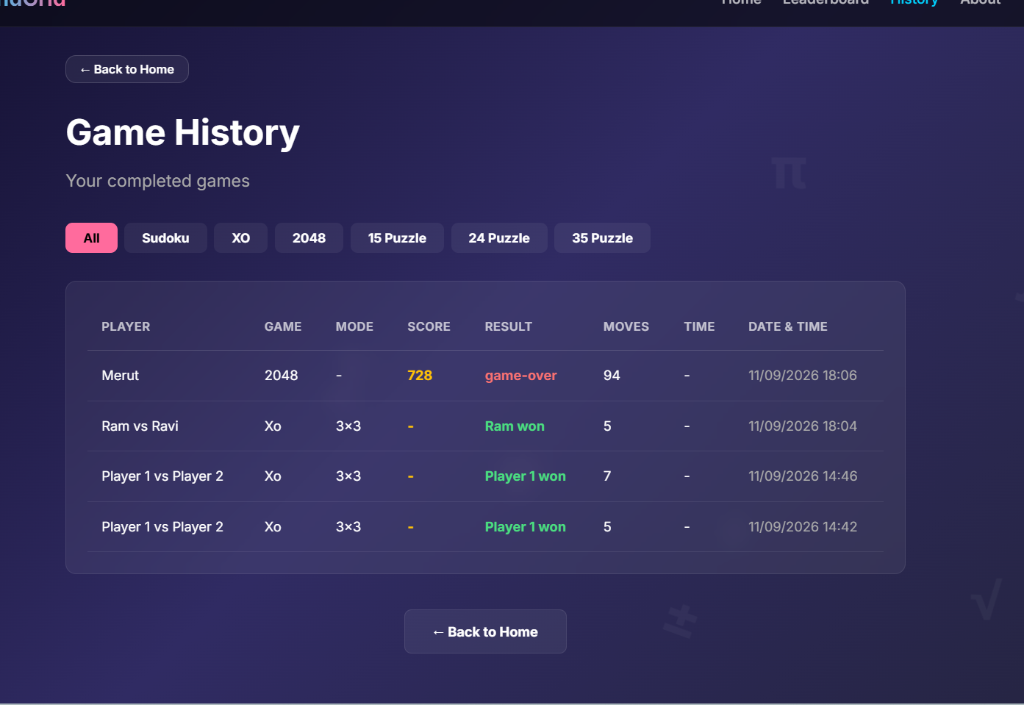
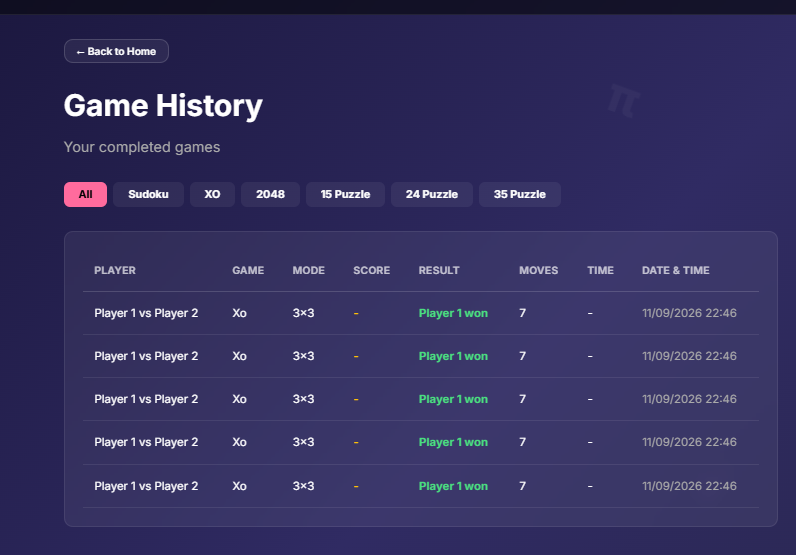
Add full UI showcase screenshots: History, Leaderboard, Rules and Sliding Puzzle

diff --git a/README.md b/README.md
@@ -33,10 +33,17 @@
 
 ---
 
-### 4. Sliding Puzzles & Leaderboards
-| Sliding Puzzles (15 / 24 / 35) | Real-time Leaderboard & History |
+### 4. Sliding Puzzles & In-Game Rules Guide
+| 15 / 24 / 35 Sliding Puzzles | Comprehensive Game Rules |
 |:---:|:---:|
-| ![Sliding Puzzle](assets/screenshots/puzzle-15.png) | ![Leaderboard](assets/screenshots/leaderboard.png) |
+| ![Sliding Puzzle](assets/screenshots/puzzle-15.png) | ![Game Rules](assets/screenshots/rules.png) |
+
+---
+
+### 5. Leaderboard & Match History
+| Real-time Leaderboard | Detailed Match History |
+|:---:|:---:|
+| ![Leaderboard](assets/screenshots/leaderboard.png) | ![History](assets/screenshots/history.png) |
 
 ---
 
